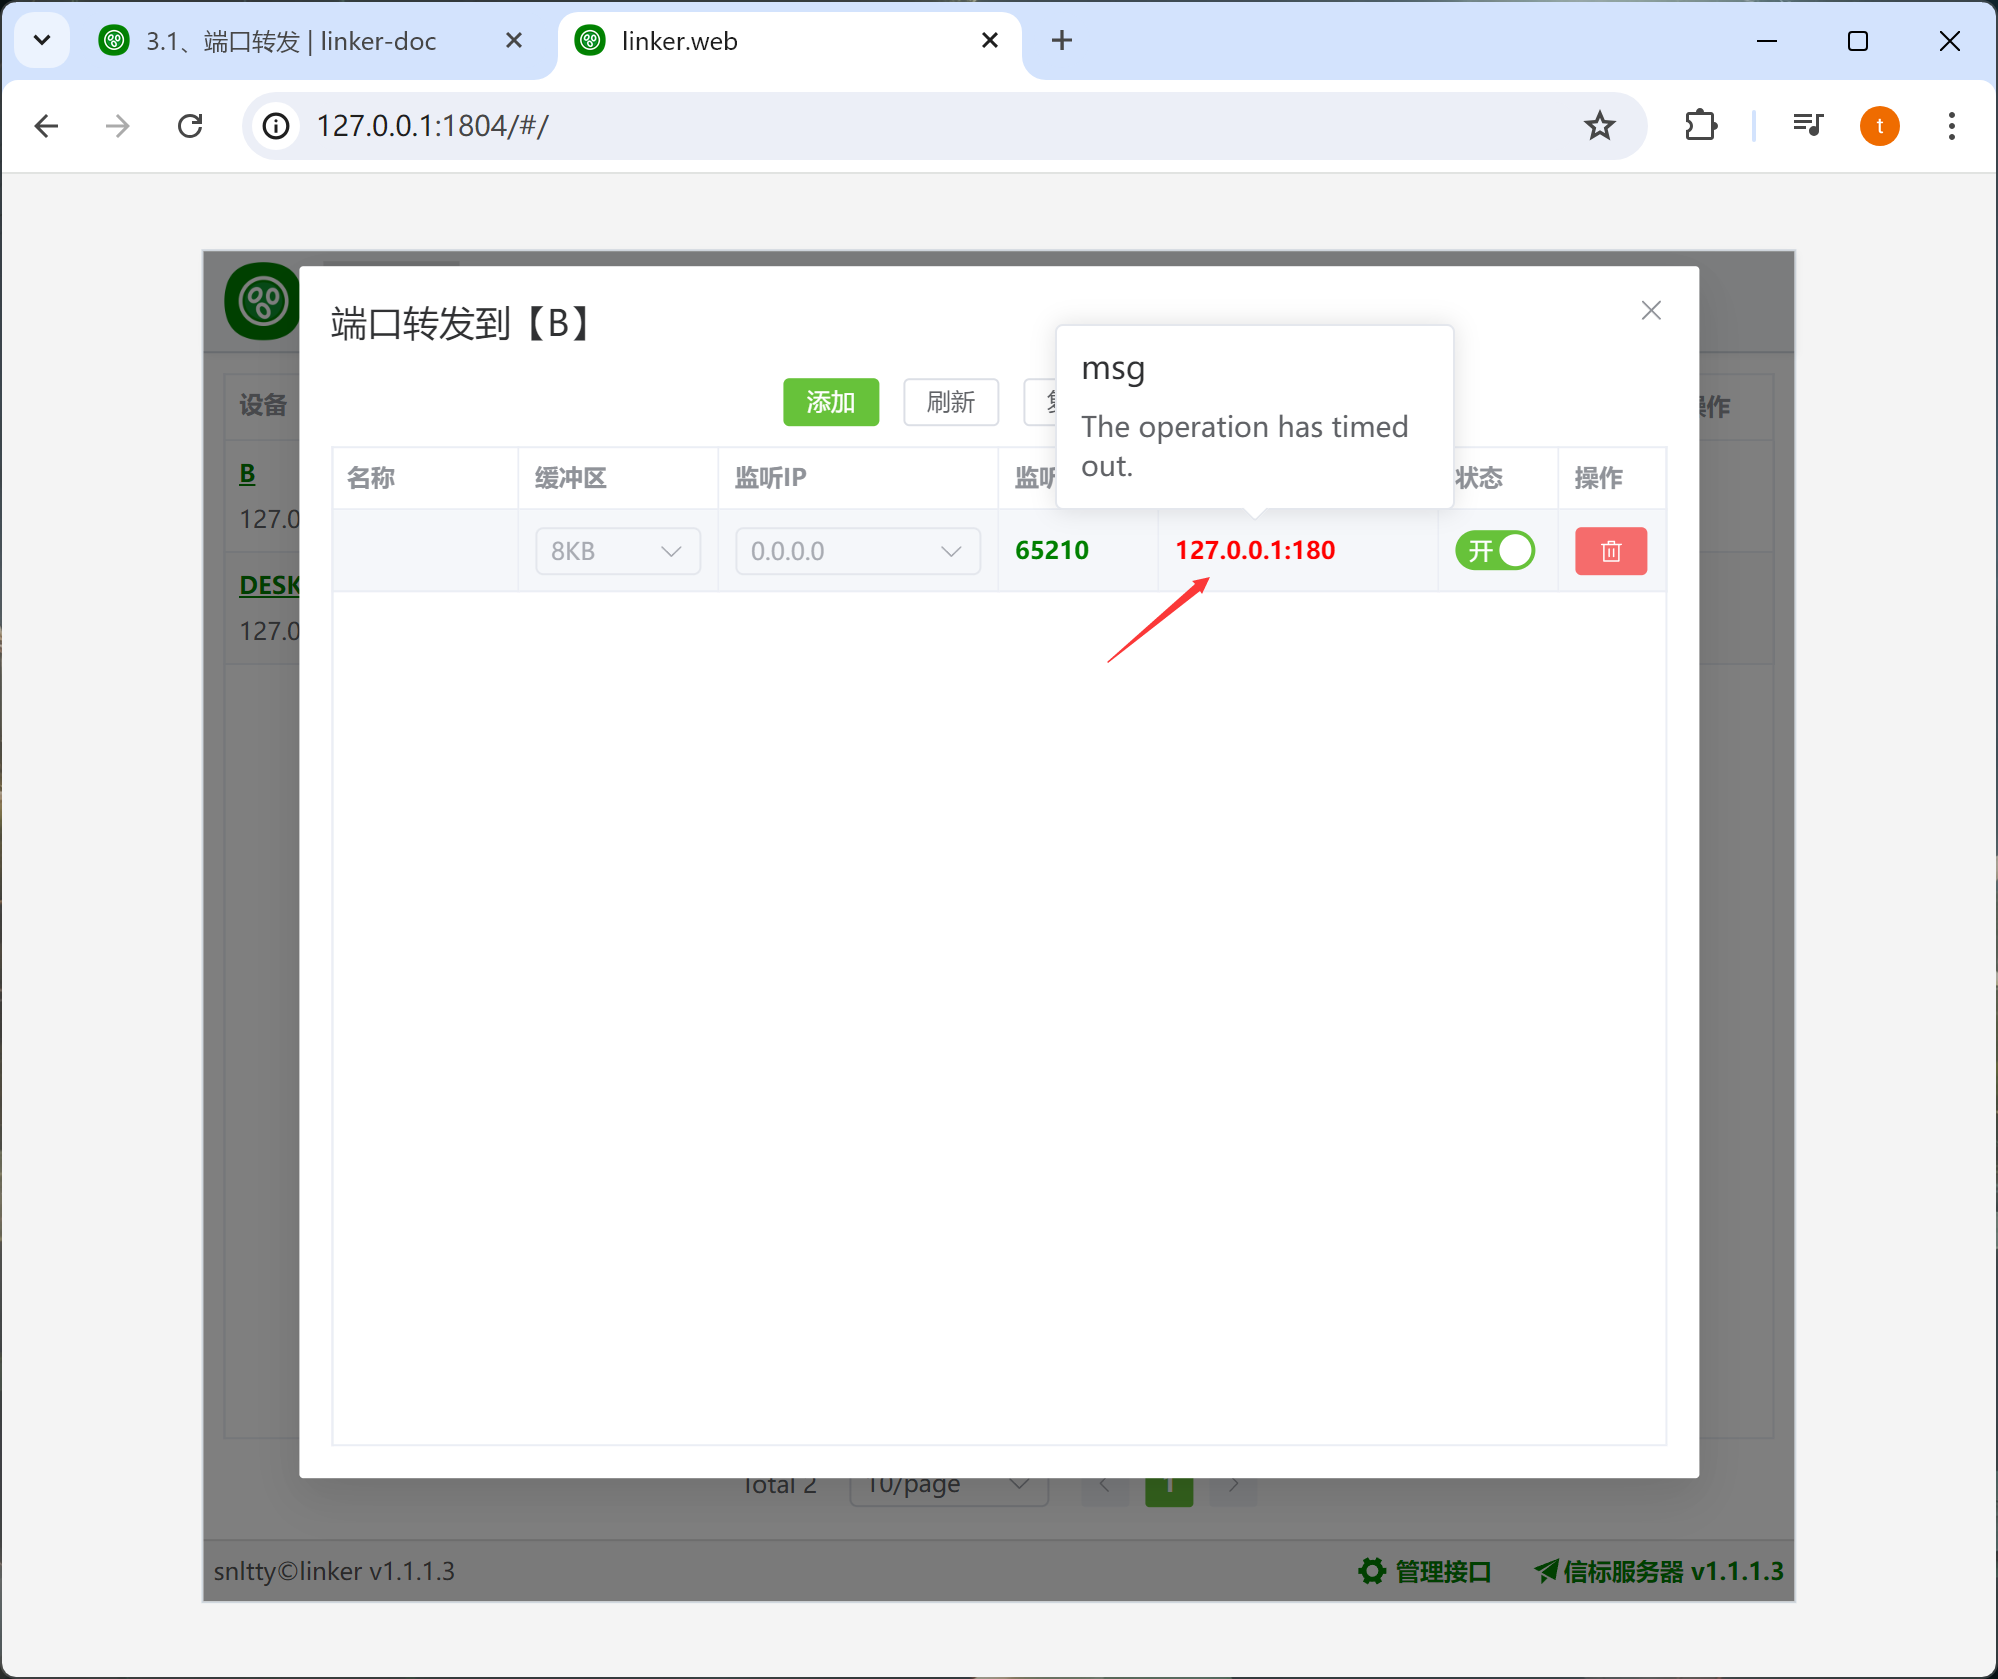
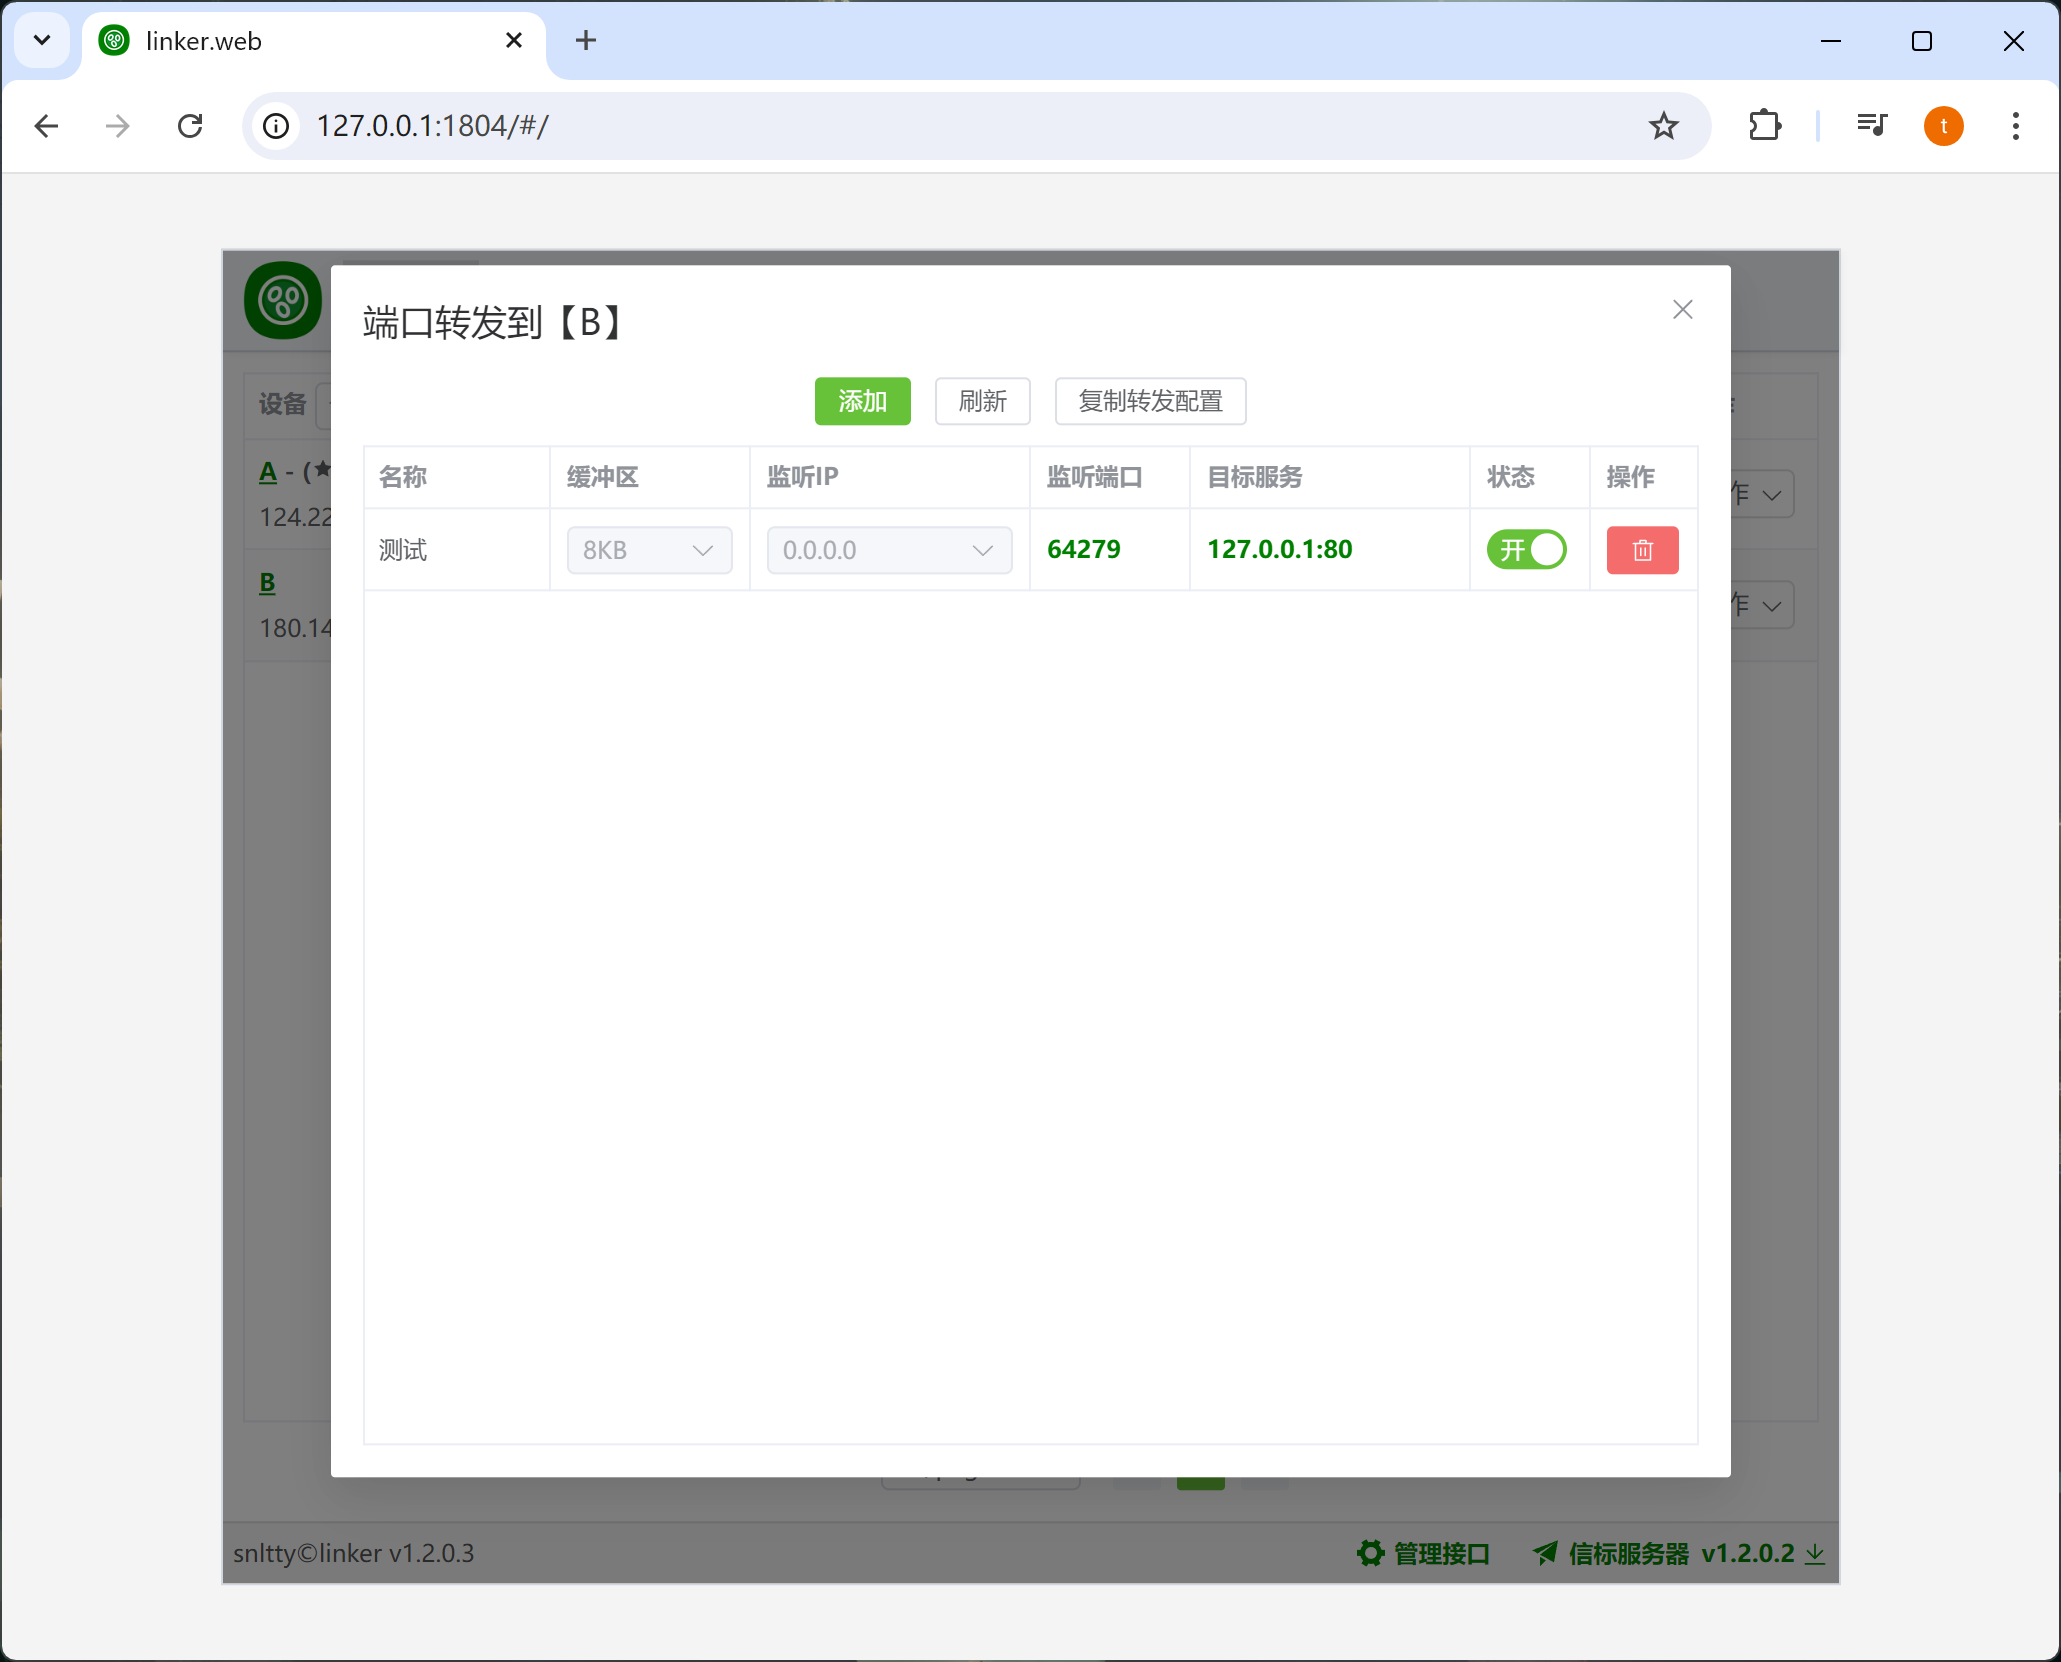
tun网卡测试

diff --git a/linker/plugins/tuntap/TuntapTransfer.cs b/linker/plugins/tuntap/TuntapTransfer.cs
@@ -91,12 +91,14 @@ namespace linker.plugins.tuntap
                     }
 
                     linkerTunDeviceAdapter.SetUp(interfaceName, runningConfig.Data.Tuntap.InterfaceGuid, runningConfig.Data.Tuntap.IP, 24);
-                    linkerTunDeviceAdapter.SetMtu(1416);
-                    linkerTunDeviceAdapter.SetNat();
-                    runningConfig.Data.Tuntap.Running = Status == TuntapStatus.Running;
-                    runningConfig.Data.Update();
-
-                    if (string.IsNullOrWhiteSpace(linkerTunDeviceAdapter.Error) == false)
+                    if (string.IsNullOrWhiteSpace(linkerTunDeviceAdapter.Error))
+                    {
+                        linkerTunDeviceAdapter.SetMtu(1416);
+                        linkerTunDeviceAdapter.SetNat();
+                        runningConfig.Data.Tuntap.Running = Status == TuntapStatus.Running;
+                        runningConfig.Data.Update();
+                    }
+                    else
                     {
                         LoggerHelper.Instance.Error(linkerTunDeviceAdapter.Error);
                     }
@@ -118,10 +120,11 @@ namespace linker.plugins.tuntap
         {
             try
             {
+                runningConfig.Data.Tuntap.Running = false;
+                runningConfig.Data.Update();
+
                 OnChange();
                 linkerTunDeviceAdapter.Shutdown();
-                runningConfig.Data.Tuntap.Running = Status == TuntapStatus.Running;
-                runningConfig.Data.Update();
             }
             catch (Exception ex)
             {
@@ -345,7 +348,6 @@ namespace linker.plugins.tuntap
                 {
                     if (runningConfig.Data.Tuntap.Running)
                     {
-                        await Task.Delay(5000).ConfigureAwait(false);
                         await CheckInterface().ConfigureAwait(false);
                     }
                 }
@@ -365,7 +367,12 @@ namespace linker.plugins.tuntap
                 LoggerHelper.Instance.Error($"tuntap inerface {interfaceName} is {networkInterface?.OperationalStatus ?? OperationalStatus.Unknown}, restarting");
                 Stop();
                 await Task.Delay(5000).ConfigureAwait(false);
-                Run();
+
+                networkInterface = NetworkInterface.GetAllNetworkInterfaces().FirstOrDefault(c => c.Name == interfaceName);
+                if (networkInterface == null || networkInterface.OperationalStatus != OperationalStatus.Up)
+                {
+                    Run();
+                }
             }
         }
     }

diff --git a/linker.tun/LinkerTunDeviceAdapter.cs b/linker.tun/LinkerTunDeviceAdapter.cs
@@ -16,6 +16,7 @@ namespace linker.tun
         public string Error => error;
 
         private uint starting = 0;
+        private uint stoping = 0;
         public LinkerTunDeviceStatus Status
         {
             get
@@ -52,6 +53,12 @@ namespace linker.tun
         /// <param name="prefixLength">掩码。一般24即可</param>
         public bool SetUp(string name, Guid guid, IPAddress address, byte prefixLength)
         {
+            if (starting == 1)
+            {
+                error = $"shutdown are operating";
+                return false;
+            }
+
             if (Interlocked.CompareExchange(ref starting, 1, 0) == 1)
             {
                 error = $"setup are operating";
@@ -145,8 +152,20 @@ namespace linker.tun
         /// <summary>
         /// 关闭网卡
         /// </summary>
-        public void Shutdown()
+        public bool Shutdown()
         {
+            if (starting == 1)
+            {
+                error = $"setup are operating";
+                return false;
+            }
+
+            if (Interlocked.CompareExchange(ref stoping, 1, 0) == 1)
+            {
+                error = $"shutdown are operating";
+                return false;
+            }
+
             cancellationTokenSource?.Cancel();
             if (linkerTunDevice != null)
             {
@@ -155,6 +174,9 @@ namespace linker.tun
             }
 
             error = string.Empty;
+            Interlocked.Exchange(ref stoping, 0);
+
+            return true;
         }
 
         /// <summary>

diff --git a/linker.doc.web/docs/4、通信功能/3.2、端口转发.md b/linker.doc.web/docs/4、通信功能/3.2、端口转发.md
@@ -6,32 +6,24 @@ sidebar_position: 2
 
 :::tip[说明]
 
-相比于虚拟网卡，这种一种备选的方式，如果能使用虚拟网卡，端口转发是完全不需要的
-
+1. 相比于虚拟网卡，这种一种备选的方式，如果能使用虚拟网卡，端口转发是完全不需要的
+2. 端口转发仅支持 TCP+UDP
 :::
 
 ## 1、配置端口转发
-在 **非本机** 设备上，端口转发一栏，管理你的端口转发，表示要使用`本机`的某个端口，去访问它的服务
-
-![Docusaurus Plushie](./img/forward.png)
 
 :::tip[说明]
-1. 关闭状态时，可双击栏目修改
-2. 当 **监听端口** 为 **0** 时，启动，会随机配置端口
+1. 在 **非本机** 设备上配置
+2. 关闭状态时，可双击栏目修改
+3. 当 **监听端口** 为 **0** 时，启动，会随机本地端口
 3. **目标服务**为目标设备上的服务
 :::
 
 ![Docusaurus Plushie](./img/forward1.png)
-
-## 2、可能存在的问题
-
-:::danger[说明]
-开启后，如果红色，表示无法访问
-:::
-
+![Docusaurus Plushie](./img/forward2.png)
 ![Docusaurus Plushie](./img/forward3.png)
 ![Docusaurus Plushie](./img/forward4.png)
+![Docusaurus Plushie](./img/forward5.png)
 
-## 3、如果没有问题
-
-如果都是绿色的，那么就可以通过 **127.0.0.1:65210** 访问到目标设备的**127.0.0.1:180**服务
+通过本机的**64279**端口，访问到了**B端**的**80**端口，第一次访问时，会去打洞或者中继，请耐心等待
+![Docusaurus Plushie](./img/forward6.png)

diff --git a/linker.doc.web/docs/4、通信功能/3.1、虚拟网卡.md b/linker.doc.web/docs/4、通信功能/3.1、虚拟网卡.md
@@ -16,24 +16,23 @@ sidebar_position: 1
 
 在设备，虚拟网卡一栏，点击IP配置
 
-![Docusaurus Plushie](./img/tuntap.png)
-
-![Docusaurus Plushie](./img/tuntap1.png)
-
-## 2、开启网卡
+![Docusaurus Plushie](./img/tun1.png)
+![Docusaurus Plushie](./img/tun2.png)
 
 开启网卡成功后，即可通过`虚拟IP`访问目标设备(当然，前提是能够打洞成功，或者中继成功)
 
-![Docusaurus Plushie](./img/tuntap2.png)
-![Docusaurus Plushie](./img/tuntap3.png)
+![Docusaurus Plushie](./img/tun3.png)
+![Docusaurus Plushie](./img/tun4.png)
 
+试一下能不能连接，第一次连接时，会尝试去打洞或中继，时间可能会比较久，耐心等待
+![Docusaurus Plushie](./img/tun5.png)
 
-## 3、点对网（局域网IP）
+## 2、点对网（局域网IP）
 
 :::tip[说明]
 
 1. 在windows linux，已经自动添加NAT转发，只需要填写自己的局域网IP，对方即可访问你局域网内的所有设备
-2. macos，需要你自己自己添加NAT转发
+2. macos，需要你自己在**被访问端**添加NAT转发
 ```
 # 开启ip转发
 sudo sysctl -w net.ipv4.ip_forward=1
@@ -47,8 +46,15 @@ sudo pfctl -f /etc/pf.conf -e
 
 :::
 
+我这里，B端的局域网IP是 `192.168.1.35`
 
-## 4、网对网
+![Docusaurus Plushie](./img/tun6.png)
+
+尝试连接 对方的局域网IP，或者局域网内其它设备
+
+![Docusaurus Plushie](./img/tun7.png)
+
+## 3、网对网
 
 :::tip[说明]
 

diff --git a/linker.doc.web/docs/2、首次运行/2.2、初始化配置.md b/linker.doc.web/docs/2、首次运行/2.2、初始化配置.md
@@ -5,16 +5,24 @@ sidebar_position: 2
 # 2.2、初始化配置
 
 ## 1、使用web初始化
-**当你要作为客户端模式运行时，可以选择此初始化方式**
 
-1. 运行程序后,浏览器打开<a href="http://127.0.0.1:1804" target="_blank">http://127.0.0.1:1804</a>
-2. 选择你要运行的模式，然后继续配置，最后保存配置后重启软件即可
+运行程序后,浏览器打开<a href="http://127.0.0.1:1804" target="_blank">http://127.0.0.1:1804</a>
 
+![](./img/modes.png)
+![](./img/server.png)
+
+:::danger[重要说明]
+如果你自己部署了服务端，你可以勾选**我有服务器**，填写你部署的服务端的各种信息
+:::
+
+![](./img/client.png)
+![](./img/save.png)
 
 ## 2、手动修改配置文件
 
 :::danger[重要说明]
-服务端模式下，需要配置server.json，且服务端没有webui，也没有其它配置，只有server.json
+1. 一般来说，仅作为服务端时，才选择这种方式，否则你应该使用web初始化
+2. 服务端模式下，需要配置server.json，且服务端没有webui，也没有其它配置，只有server.json
 :::
 
 :::tip[服务端运行流程]

diff --git a/README.md b/README.md
@@ -11,7 +11,7 @@
 <div align="center">
 <p><img src="./readme/logo.png" height="150"></p> 
 
-# linker、link anywhere
+# .NET8.0、linker、link anywhere
 
 ![GitHub Repo stars](https://img.shields.io/github/stars/snltty/linker?style=social)
 ![GitHub Repo forks](https://img.shields.io/github/forks/snltty/linker?style=social)
@@ -27,8 +27,10 @@
 ## 主要功能
 
 - [x] 打洞连接，客户端之间打洞连接，TCP打洞、UDP+MsQuic打洞
+- [x] 打洞类库，你可以nuget安装 `linker.tunnel` 将打洞功能集成到你的项目中
 - [x] 中继连接，客户端之间通过服务器转发连接
-- [x] 异地组网，使用虚拟网卡，将各个客户端组建为局域网络，使用 **tun2socks**
+- [x] 异地组网，使用虚拟网卡，将各个客户端组建为局域网络
+- [x] 网卡类库，你可以nuget安装 `linker.tun` 将tun网卡功能集成到你的项目中
 - [x] 端口转发，将客户端的端口转发到其它客户端的端口
 - [x] 服务器穿透，在服务器注册端口或域名，通过访问服务器端口或域名，访问内网服务 
 

diff --git a/linker.doc.web/docs/1、首页.md b/linker.doc.web/docs/1、首页.md
@@ -7,8 +7,8 @@ sidebar_position: 1
 ## 1、说明
 
 1. 使用 .NET8、所有通信功能均支持TCP+UDP 
-2. SSL通信加密，打洞、中继、均支持ssl加密
-3. 打洞内核**免费开源**，你可以使用**linker.tunnel**库将打洞集成到自己的项目中
+2. SSL通信加密，打洞、中继、均ssl加密
+3. 打洞内核**免费开源**，你可以使用**linker.tunnel**打洞库，**linker.tun**tun网卡库，集成到你的项目中
 4. 多种通信方案、**服务器代理穿透**、**端口转发**、**虚拟网卡异地组网**
 5. 多种打洞方案、**TCP端口映射连接**、**TCP打洞(基于TTL,支持IPV6)**、**TCP打洞(基于同时打开)**、**UDP打洞(msquic)**
 6. 打洞失败回退、这需要你中继部署服务器进行中继通信
@@ -19,8 +19,6 @@ sidebar_position: 1
 <a href="https://jq.qq.com/?_wv=1027&k=ucoIVfz4" target="_blank">你可以加入QQ群：1121552990，可以申请一些免费的中继服务器 </a>
 
 :::
-
-
 
 ## 2、感谢支持 
 

diff --git a/linker.doc.web/docs/8、集成tun网卡到你的项目.md b/linker.doc.web/docs/8、集成tun网卡到你的项目.md
@@ -8,13 +8,16 @@ sidebar_position: 8
 
 ## 1、windows
 
-[下载wintun](https://www.wintun.net/)，选择适合你系统的 `wintun.dll`放到项目根目录，然后nuget 安装 `linker.tun`
+[下载wintun](https://www.wintun.net/)，选择适合你系统的 `wintun.dll`放到项目根目录
 
 ## 2、linux
 
-请确保你的系统拥有`tuntap`模块，`ifconfig`、`ip`命令
+请确保你的系统拥有`tuntap`模块，`ifconfig`、`ip`、`iptables`命令
 
 ## 3、编写一个简单的代码
+
+nuget 安装 `linker.tun`，然后编写代码
+
 ```c#
 
 internal class Program

diff --git a/linker.doc.web/docs/2、首次运行/2.1、安装.md b/linker.doc.web/docs/2、首次运行/2.1、安装.md
@@ -12,7 +12,7 @@ sidebar_position: 1
 
 ## 2、linux  systemd
 
-如果运行为客户端，请确保你的linux有`tun`模块、`ip`、`ifconfig`、`traceroute` 命令
+如果运行为客户端，请确保你的linux有`tuntap`模块、`ip`、`ifconfig`、`traceroute`、`iptables` 命令
 
 ```
 //1、下载linux版本程序，放到 /usr/local/linker 文件夹

diff --git a/linker.doc.web/docs/3、打洞和中继/4.1、打洞.md b/linker.doc.web/docs/3、打洞和中继/4.1、打洞.md
@@ -37,4 +37,4 @@ sidebar_position: 1
 :::
 
 
-![Docusaurus Plushie](./img/p2p1.png)
+![Docusaurus Plushie](./img/tunnel.png)

diff --git a/linker.doc.web/docs/4、通信功能/3.3、服务器穿透.md b/linker.doc.web/docs/4、通信功能/3.3、服务器穿透.md
@@ -2,7 +2,7 @@
 sidebar_position: 3
 ---
 
-# 3.3、服务器代理穿透
+# 3.3、服务器穿透
 
 :::tip[说明]
 
